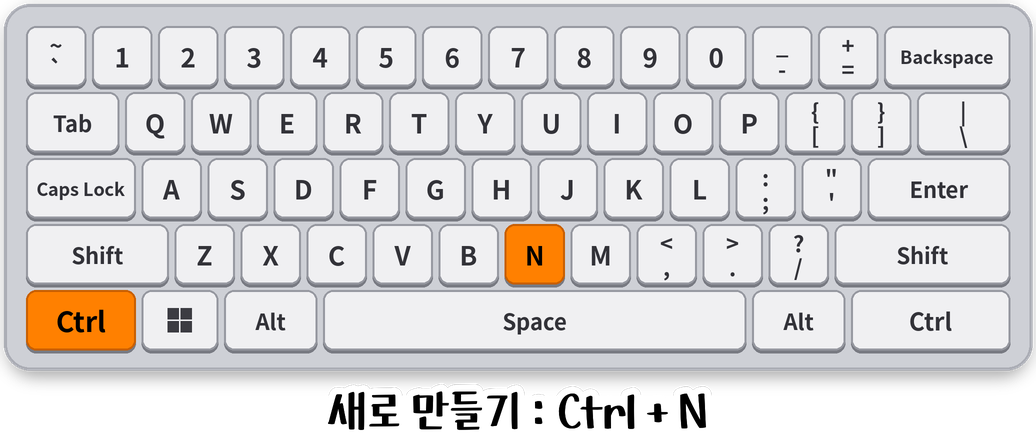
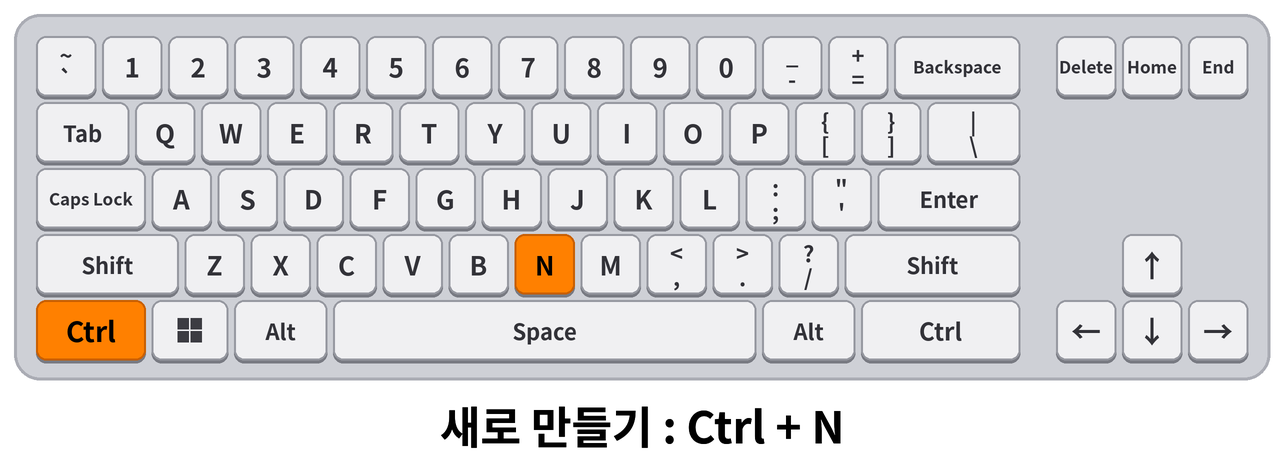
스티커: 단축키 메뉴(키보드형·텍스트형), 단축키 스티커 39종, 도형 12종 추가
Claude-Session: https://claude.ai/code/session_01BX7yHuYMLGBaCC9Nhfa5pj

diff --git a/public/app.js b/public/app.js
@@ -1411,7 +1411,8 @@ function buildSubPane(d) {
     d.append(E('h4', '', `자막 목록 (${S.texts.filter((x) => x.kind === 'sub').length}개)`));
     const ss = S.texts.filter((x) => x.kind === 'sub').sort((p, q) => p.start - q.start); if (!ss.length) d.append(E('div', 'hint', '아직 없어요')); ss.forEach((x) => d.append(subRow(x)));
 }
-let stkSec = 'shape';
+let stkSec = 'shape', stkSub = 'kbd';
+const STK_ORDER = ['복사', '붙여넣기', '잘라내기', '되돌리기', '다시 실행', '저장', '전체 선택', '찾기', '새로 만들기', '인쇄', '화면 캡처', '바탕화면 보기', '재생 일시정지', '분할', '모든 트랙 분할', '앞부분 삭제', '뒷부분 삭제', '클립 삭제', '다시 실행 2', '속성 복사', '속성 붙여넣기', '1프레임 이동', '10프레임 이동', '이전 다음 컷', '처음으로', '끝으로', '선택 모드', '클릭 자르기 모드', '뒤로 감기', '멈춤', '빠르게 감기', '타임라인 전체 보기', '타임라인 확대', '타임라인 축소', '음량 올리기', '음량 내리기', '현재 장면 캡처', '내보내기', '줄바꿈'];
 function buildLeft() {
   const b = $('#lbody'); b.innerHTML = '';
   if (ltab === 'media') {
@@ -1440,8 +1441,16 @@ function buildLeft() {
       nb.onclick = () => { stkSec = k; Object.keys(secs).forEach((q) => { secs[q].style.display = q === k ? '' : 'none'; }); nav.querySelectorAll('.stknb').forEach((x) => x.classList.toggle('on', x.dataset.k === k)); };
       nav.append(nb); d.append(w); return { w, nb };
     };
-    const sShape = mkSec('shape', '도형'), sKbd = mkSec('kbd', '키보드형\n단축키'), sTxt = mkSec('txt', '텍스트형\n단축키'), sMine = mkSec('mine', '내 이미지'), sUsed = mkSec('used', '넣은 스티커');
-    sMine.nb.style.display = 'none'; sKbd.nb.style.display = sTxt.nb.style.display = 'none'; if (!ss.length) sUsed.nb.style.display = 'none';
+    const sShape = mkSec('shape', '도형'), sKey = mkSec('key', '단축키'), sMine = mkSec('mine', '내 이미지'), sUsed = mkSec('used', '넣은 스티커');
+    sMine.nb.style.display = 'none'; sKey.nb.style.display = 'none'; if (!ss.length) sUsed.nb.style.display = 'none';
+    if (stkSec === 'kbd' || stkSec === 'txt') stkSec = 'key';
+    const kg = E('div', 'stk-grid stk-names'), tg = E('div', 'stk-grid stk-names');
+    const subn = E('div', 'stksub'), subb = E('div', 'stksubbody'), ksub = {};
+    [['kbd', '키보드형', kg], ['txt', '텍스트형', tg]].forEach(([k, lb, gr]) => {
+      const bt = E('button', 'stksb' + (stkSub === k ? ' on' : ''), lb); bt.onclick = () => { stkSub = k; kg.style.display = k === 'kbd' ? '' : 'none'; tg.style.display = k === 'txt' ? '' : 'none'; subn.querySelectorAll('.stksb').forEach((q) => q.classList.toggle('on', q === bt)); }; subn.append(bt); ksub[k] = gr;
+    });
+    kg.style.display = stkSub === 'kbd' ? '' : 'none'; tg.style.display = stkSub === 'txt' ? '' : 'none'; subb.append(kg, tg);
+    const kw = E('div', 'stkkey'); kw.append(subn, subb); sKey.w.append(kw);
     const sg = E('div', 'chips shapes');
     const SV = (vb, inner, st) => `<svg viewBox="${vb}" width="30" height="30" fill="${st ? 'none' : 'currentColor'}" ${st ? 'stroke="currentColor" stroke-width="2.4" stroke-linecap="round" stroke-linejoin="round"' : ''}>${inner}</svg>`;
     const SHI = {
@@ -1457,17 +1466,21 @@ function buildLeft() {
       hand: SV('0 0 100 120', `<path d="${HAND_D}" stroke-width="7"/>`, 1),
       handclick: SV('0 0 100 130', `<path d="${HAND_D}" transform="translate(0 10)" stroke-width="7"/><path d="M43 8V0M33 12L27 6M53 12l6-6M29 22h-8M57 22h8" stroke-width="7"/>`, 1),
     };
+    Object.keys(SHAPE_PTS).forEach((v) => { if (!SHI[v]) SHI[v] = SV('0 0 24 24', '<polygon points="' + SHAPE_PTS[v].map(([u, w]) => (u * 20 + 2).toFixed(1) + ',' + (w * 20 + 2).toFixed(1)).join(' ') + '"/>'); });
+    Object.keys(SHAPE_D).forEach((v) => { SHI[v] = SV('0 0 24 24', '<path transform="translate(2 2) scale(.2)" d="' + SHAPE_D[v] + '"/>'); });
     Object.keys(SHI).forEach((v) => { const b = E('button', 'chip', SHI[v]); b.title = SHAPE_NAMES[v]; b.onclick = () => addShape(v); sg.append(b); });
     sShape.w.append(sg);
     const g = E('div', 'stk-grid'); sMine.w.append(g);
     const trash = E('div', 'stk-trash', '🗑 삭제'); trash.style.display = 'none'; trash.ondragover = (e) => { e.preventDefault(); trash.classList.add('over'); }; trash.ondragleave = () => trash.classList.remove('over'); trash.ondrop = (e) => { e.preventDefault(); trash.style.display = 'none'; trash.classList.remove('over'); if (trash._del) trash._del(); };
-    const kg = E('div', 'stk-grid stk-names'), tg = E('div', 'stk-grid stk-names'); sKbd.w.append(kg); sTxt.w.append(tg); d.append(trash);
+    d.append(trash);
     const drag0 = (e, st) => { dragKind = 'sticker'; e.dataTransfer.setData('text/x-vtk', JSON.stringify({ k: 'sticker', st })); e.dataTransfer.effectAllowed = st.builtin ? 'copy' : 'copyMove'; };
     fetch('/api/stickers').then((r) => r.json()).then((l) => {
+      const rk = (st) => { const n = st.id.replace(/\.[^.]+$/, '').replace(/^[^_]*_/, ''), i = STK_ORDER.indexOf(n); return i < 0 ? 999 : i; };
+      l = l.slice().sort((p, q) => (q.builtin ? 1 : 0) - (p.builtin ? 1 : 0) || (p.builtin ? rk(p) - rk(q) : 0));
       l.forEach((st) => {
         if (st.builtin) {   // 편집기에 들어 있는 단축키 스티커: 같은 크기 글자 칸으로 보여줘요
           const t = E('button', 'stk-name', esc(st.id.replace(/\.[^.]+$/, '').replace(/^[^_]*_/, ''))); t.onclick = () => addSticker(st); t.draggable = true; t.ondragstart = (e) => drag0(e, st);
-          const k = st.id.startsWith('단축키_'); (k ? kg : tg).append(t); (k ? sKbd : sTxt).nb.style.display = ''; return;
+          const k = st.id.startsWith('단축키_'); (k ? kg : tg).append(t); sKey.nb.style.display = ''; return;
         }
         sMine.nb.style.display = '';
         const t = E('button', 'stk-tile'); t.title = st.name; const im = E('img'); im.src = '/api/sticker/file?n=' + encodeURIComponent(st.id); im.draggable = false; t.append(im); if (st.gif) t.append(E('span', 'gb', 'GIF'));
@@ -2305,14 +2318,28 @@ function buildFxTab(d) {
 
 /* ============ 도형 (사각형 · 원) ============ */
 const hexA = (h, a) => { h = String(h || '#000000').replace('#', ''); if (h.length === 3) h = h.split('').map((c) => c + c).join(''); const n = parseInt(h, 16) || 0; return `rgba(${(n >> 16) & 255},${(n >> 8) & 255},${n & 255},${clamp(a, 0, 1)})`; };
-const SHAPE_NAMES = { rect: '사각형', ellipse: '원', arrow: '화살표', check: '체크 표시', cross: 'X 표시', checkbox: '체크박스', pointer: '마우스 포인터', click: '클릭 표시', badge: '번호 동그라미', hand: '손가락 포인터', handclick: '손가락 클릭' };
+const SHAPE_NAMES = { rect: '사각형', ellipse: '원', arrow: '화살표', check: '체크 표시', cross: 'X 표시', checkbox: '체크박스', pointer: '마우스 포인터', click: '클릭 표시', badge: '번호 동그라미', hand: '손가락 포인터', handclick: '손가락 클릭', heart: '하트', star: '별', triangle: '삼각형', diamond: '마름모', pentagon: '오각형', hexagon: '육각형', plus: '더하기', bolt: '번개', chevron: '꺾쇠', darrow: '양쪽 화살표', bubble: '말풍선', bubble2: '둥근 말풍선' };
 const SHAPE_PTS = {
   arrow: [[0, .3], [.58, .3], [.58, 0], [1, .5], [.58, 1], [.58, .7], [0, .7]],
   check: [[.04, .56], [.2, .4], [.4, .6], [.8, .08], [.96, .24], [.4, .92]],
   cross: [[.2, 0], [.5, .3], [.8, 0], [1, .2], [.7, .5], [1, .8], [.8, 1], [.5, .7], [.2, 1], [0, .8], [.3, .5], [0, .2]],
-  pointer: [[0, 0], [0, .86], [.21, .67], [.36, 1], [.5, .94], [.35, .62], [.64, .62]]
+  pointer: [[0, 0], [0, .86], [.21, .67], [.36, 1], [.5, .94], [.35, .62], [.64, .62]],
+  star: [[0.5,0.04],[0.618,0.378],[0.976,0.385],[0.69,0.602],[0.794,0.945],[0.5,0.74],[0.206,0.945],[0.31,0.602],[0.024,0.385],[0.382,0.378]],
+  triangle: [[.5, 0], [1, 1], [0, 1]], diamond: [[.5, 0], [1, .5], [.5, 1], [0, .5]],
+  pentagon: [[0.5,0.03],[0.976,0.375],[0.794,0.935],[0.206,0.935],[0.024,0.375]],
+  hexagon: [[.25, 0], [.75, 0], [1, .5], [.75, 1], [.25, 1], [0, .5]],
+  plus: [[.35, 0], [.65, 0], [.65, .35], [1, .35], [1, .65], [.65, .65], [.65, 1], [.35, 1], [.35, .65], [0, .65], [0, .35], [.35, .35]],
+  bolt: [[.6, 0], [.12, .58], [.46, .58], [.34, 1], [.88, .4], [.52, .4]],
+  chevron: [[0, 0], [.45, 0], [1, .5], [.45, 1], [0, 1], [.55, .5]],
+  darrow: [[0, .5], [.2, .12], [.2, .34], [.8, .34], [.8, .12], [1, .5], [.8, .88], [.8, .66], [.2, .66], [.2, .88]]
 };
-const SHAPE_START = { hand: { w: 10, h: 12, fillColor: '#ffffff', stroke: true, strokeColor: '#000000', strokeW: 5 }, handclick: { w: 13, h: 15, fillColor: '#ffffff', stroke: true, strokeColor: '#000000', strokeW: 5 }, badge: { w: 9, h: 9, fillColor: '#FF3B30', num: '1', numColor: '#ffffff' }, arrow: { w: 26, h: 13, fillColor: '#FF3B30', stroke: true, strokeColor: '#ffffff', strokeW: 4 }, click: { w: 9, h: 9, fillColor: '#FFE14D', fillOpacity: 45, stroke: true, strokeColor: '#FFD21F', strokeW: 6 }, check: { w: 12, h: 12, fillColor: '#22C55E' }, cross: { w: 12, h: 12, fillColor: '#FF3B30' }, checkbox: { w: 12, h: 12, fill: false, stroke: true, strokeColor: '#ffffff', strokeW: 8, radius: 15, checkColor: '#22C55E' }, pointer: { w: 9, h: 12, fillColor: '#ffffff', stroke: true, strokeColor: '#000000', strokeW: 4, shadow: true } };
+// 곡선이 있는 도형 (가로·세로 100 칸 안에 그린 선)
+const SHAPE_D = {
+  heart: 'M50 97C8 63 0 41 0 27C0 11 12 2 26 2C36 2 45 8 50 18C55 8 64 2 74 2C88 2 100 11 100 27C100 41 92 63 50 97Z',
+  bubble: 'M16 4H84Q98 4 98 18V58Q98 72 84 72H48L26 96L30 72H16Q2 72 2 58V18Q2 4 16 4Z',
+  bubble2: 'M50 4C24 4 3 21 3 41C3 53 10 63 21 70L15 97L46 77C47 77 49 77 50 77C76 77 97 61 97 41C97 21 76 4 50 4Z'
+};
+const SHAPE_START = { heart: { w: 18, h: 17, fillColor: '#FF3B30' }, star: { w: 18, h: 17, fillColor: '#FFD60A' }, triangle: { w: 18, h: 16 }, diamond: { w: 16, h: 18 }, pentagon: { w: 18, h: 17 }, hexagon: { w: 18, h: 16 }, plus: { w: 15, h: 15, fillColor: '#22C55E' }, bolt: { w: 12, h: 18 }, chevron: { w: 12, h: 16 }, darrow: { w: 28, h: 12, fillColor: '#FF3B30', stroke: true, strokeColor: '#ffffff', strokeW: 4 }, bubble: { w: 28, h: 22, fillColor: '#ffffff', stroke: true, strokeColor: '#000000', strokeW: 5 }, bubble2: { w: 28, h: 22, fillColor: '#ffffff', stroke: true, strokeColor: '#000000', strokeW: 5 }, hand: { w: 10, h: 12, fillColor: '#ffffff', stroke: true, strokeColor: '#000000', strokeW: 5 }, handclick: { w: 13, h: 15, fillColor: '#ffffff', stroke: true, strokeColor: '#000000', strokeW: 5 }, badge: { w: 9, h: 9, fillColor: '#FF3B30', num: '1', numColor: '#ffffff' }, arrow: { w: 26, h: 13, fillColor: '#FF3B30', stroke: true, strokeColor: '#ffffff', strokeW: 4 }, click: { w: 9, h: 9, fillColor: '#FFE14D', fillOpacity: 45, stroke: true, strokeColor: '#FFD21F', strokeW: 6 }, check: { w: 12, h: 12, fillColor: '#22C55E' }, cross: { w: 12, h: 12, fillColor: '#FF3B30' }, checkbox: { w: 12, h: 12, fill: false, stroke: true, strokeColor: '#ffffff', strokeW: 8, radius: 15, checkColor: '#22C55E' }, pointer: { w: 9, h: 12, fillColor: '#ffffff', stroke: true, strokeColor: '#000000', strokeW: 4, shadow: true } };
 const SHAPE_DEF = { fill: true, fillColor: '#FFFD00', fillOpacity: 100, stroke: false, strokeColor: '#ffffff', strokeW: 6, strokeStyle: 'solid', strokeOpacity: 100, radius: 0, shadow: false, shadowColor: '#000000', shadowOpacity: 60, shadowBlur: 12, shadowX: 6, shadowY: 8, opacity: 100, lock: true };
 // 도형을 캔버스에 그림 (미리보기와 내보내기가 똑같이 이 함수를 써요). Wc = 화면 가로 픽셀
 const HAND_D = 'M36 12 a7 7 0 0 1 14 0 L50 46 a6 6 0 0 1 12 0 L62 52 a6 6 0 0 1 12 0 L74 58 a6 6 0 0 1 12 0 L86 82 Q86 108 62 112 L44 112 Q32 112 26 100 L10 74 Q6 66 14 62 Q20 60 25 66 L36 80 Z';
@@ -2330,7 +2357,7 @@ function drawShape(x, Wc) {
     const mt = new DOMMatrix().translate(-w / 2, -h / 2).scale(w / 100, h / VH).translate(0, dy);
     P2 = new Path2D(); P2.addPath(new Path2D(HAND_D), mt);
     if (click) { SPARK = new Path2D(); [-90, -135, -45, 180, 0].forEach((ag) => { const r = ag * Math.PI / 180, c = Math.cos(r), s = Math.sin(r); const sp = new Path2D(); sp.moveTo(43 + 14 * c, 22 + 14 * s); sp.lineTo(43 + 22 * c, 22 + 22 * s); SPARK.addPath(sp, new DOMMatrix().translate(-w / 2, -h / 2).scale(w / 100, h / VH)); }); }
-  } else
+  } else if (SHAPE_D[x.shape]) { P2 = new Path2D(); P2.addPath(new Path2D(SHAPE_D[x.shape]), new DOMMatrix().translate(-w / 2, -h / 2).scale(w / 100, h / 100)); } else
   if (x.shape === 'ellipse' || x.shape === 'click' || x.shape === 'badge') g.ellipse(0, 0, w / 2, h / 2, 0, 0, Math.PI * 2);
   else if (SHAPE_PTS[x.shape]) { SHAPE_PTS[x.shape].forEach(([u, v], i) => { const px = (u - 0.5) * w, py = (v - 0.5) * h; if (i) g.lineTo(px, py); else g.moveTo(px, py); }); g.closePath(); }
   else { const r = Math.min(clamp((x.radius || 0) / 100, 0, 0.5) * Math.min(w, h), w / 2, h / 2), l = -w / 2, t = -h / 2; g.moveTo(l + r, t); g.arcTo(l + w, t, l + w, t + h, r); g.arcTo(l + w, t + h, l, t + h, r); g.arcTo(l, t + h, l, t, r); g.arcTo(l, t, l + w, t, r); g.closePath(); }

diff --git a/public/style.css b/public/style.css
@@ -556,3 +556,7 @@ body.resizing{user-select:none}body.resizing *{cursor:inherit!important}
 .pane.stkwrap{flex-direction:row!important;align-items:stretch}.stknav{align-self:stretch}
 .bgsw{display:flex;flex-wrap:wrap;gap:8px;margin:6px 0 10px}.bgsw-b{width:34px;height:34px;border-radius:9px;border:2px solid #3a3a44;cursor:pointer;padding:0}.bgsw-b:hover{border-color:#fff}.bgdot{width:16px;height:16px;border-radius:50%;border:1px solid #666;flex:none}
 .ttl-in{width:100%;box-sizing:border-box;margin:0 0 8px;padding:10px 12px;border-radius:9px;border:1px solid #3a3a44;background:#1c1c22;color:#fff;font-size:14px}.bgsw-b.on{border-color:#26d4c4;box-shadow:0 0 0 2px #26d4c4 inset}
+
+.stkkey{display:flex;gap:8px;align-items:flex-start}.stksub{flex:none;width:74px;display:flex;flex-direction:column;gap:4px}.stksubbody{flex:1;min-width:0}
+.stksb{padding:10px 4px;border:1px solid var(--line,#34343c);border-radius:8px;background:#1d1d22;color:#a9a9b6;font-size:13px;font-weight:700;cursor:pointer}.stksb:hover{color:#fff}.stksb.on{background:#2d2d36;color:var(--accent,#26d4c4);border-color:var(--accent,#26d4c4)}
+.stkkey .stk-names{grid-template-columns:1fr!important}.stkkey .stk-name{height:40px;font-size:14px;padding:0 10px;text-align:left;white-space:nowrap;overflow:hidden;text-overflow:ellipsis}

diff --git a/tools/make_stickers.py b/tools/make_stickers.py
@@ -1,0 +1,95 @@
+from PIL import Image, ImageDraw, ImageFont, ImageFilter
+import os, sys
+S=2
+KEY=60*S; GAP=6*S; PAD=26*S
+F='/usr/share/fonts/opentype/noto/NotoSansCJK-Bold.ttc'
+def font(s,idx=1): return ImageFont.truetype(F,int(s*S),index=idx)
+rows=[
+ [('~\n`',1),('1',1),('2',1),('3',1),('4',1),('5',1),('6',1),('7',1),('8',1),('9',1),('0',1),('_\n-',1),('+\n=',1),('Backspace',2)],
+ [('Tab',1.5)]+[(c,1) for c in 'QWERTYUIOP']+[('{\n[',1),('}\n]',1),('|\n\\',1.5)],
+ [('Caps Lock',1.75)]+[(c,1) for c in 'ASDFGHJKL']+[(':\n;',1),('"\n\'',1),('Enter',2.25)],
+ [('Shift',2.25)]+[(c,1) for c in 'ZXCVBNM']+[('<\n,',1),('>\n.',1),('?\n/',1),('Shift',2.75)],
+ [('Ctrl',1.75),('Win',1.25),('Alt',1.5),('Space',6.5),('Alt',1.5),('Ctrl',2.5)],
+]
+# 오른쪽 이동키 묶음 (행 번호, 열 번호, 글자)
+cluster=[(0,0,'Delete'),(0,1,'Home'),(0,2,'End'),(3,1,'↑'),(4,0,'←'),(4,1,'↓'),(4,2,'→')]
+MAINW=15*KEY+14*GAP; CLW=3*KEY+2*GAP; SEP=int(0.6*KEY)
+def keyboard(hl, caption, out):
+    W=int(MAINW+SEP+CLW+2*PAD); H0=int(5*KEY+4*GAP+2*PAD); capf=font(44)
+    H=H0+int(76*S)
+    im=Image.new('RGBA',(W,H),(0,0,0,0))
+    d=ImageDraw.Draw(im)
+    d.rounded_rectangle((4*S,4*S,W-4*S,H0-6*S),radius=26*S,fill=(206,208,214,255),outline=(170,172,180,255),width=3*S)
+    def key(x,y,kw,lab,on):
+        fill=(255,128,0,255) if on else (240,240,242,255)
+        edge=(200,95,0,255) if on else (150,152,160,255)
+        d.rounded_rectangle((x,y+3*S,x+kw,y+KEY+3*S),radius=10*S,fill=(120,122,130,255))
+        d.rounded_rectangle((x,y,x+kw,y+KEY),radius=10*S,fill=fill,outline=edge,width=2*S)
+        col=(0,0,0,255) if on else (50,50,56,255); cx,cy=x+kw/2,y+KEY/2
+        if lab=='Win':
+            s=11*S; g=2*S
+            for i in range(2):
+                for j in range(2): d.rectangle((cx-s-g/2+i*(s+g),cy-s-g/2+j*(s+g),cx-g/2+i*(s+g),cy-g/2+j*(s+g)),fill=(255,255,255,255) if on else (60,60,66,255))
+        elif '\n' in lab:
+            a,b=lab.split('\n'); f=font(22); d.text((cx,cy-12*S),a,font=f,fill=col,anchor='mm'); d.text((cx,cy+12*S),b,font=f,fill=col,anchor='mm')
+        else:
+            if lab in '↑←↓→': size=30
+            elif len(lab)==1: size=26
+            elif lab in('Ctrl','Shift','Alt','Enter','Space','Tab'): size=22
+            else: size=17
+            if lab in('Ctrl','Win'): size=28 if on else 24
+            d.text((cx,cy),lab,font=font(size),fill=col,anchor='mm')
+    counts={}; y=PAD
+    for r in rows:
+        x=PAD
+        for lab,w in r:
+            kw=w*KEY+(w-1)*GAP if w!=1 else KEY
+            counts[lab]=counts.get(lab,0)+1
+            key(x,y,kw,lab,lab in hl and counts[lab]==1)
+            x+=kw+GAP
+        y+=KEY+GAP
+    x0=PAD+MAINW+SEP
+    for r,c,lab in cluster:
+        key(x0+c*(KEY+GAP),PAD+r*(KEY+GAP),KEY,lab,lab in hl)
+    cd=ImageDraw.Draw(im); cy=H0+38*S
+    cd.text((W/2,cy),caption,font=capf,fill=(0,0,0,255),anchor='mm',stroke_width=6*S,stroke_fill=(255,255,255,255))
+    cd.text((W/2,cy),caption,font=capf,fill=(0,0,0,255),anchor='mm')
+    OFF=10*S; SW=6*S   # 아래 글자와 같은 흰색, 같은 굵기(6) 테두리
+    big=Image.new('RGBA',(W+2*OFF,H+2*OFF),(0,0,0,0)); bd=ImageDraw.Draw(big)
+    bd.rounded_rectangle((OFF+4*S-SW,OFF+4*S-SW,OFF+W-4*S+SW,OFF+H0-6*S+SW),radius=26*S+SW,fill=(255,255,255,255))
+    big.alpha_composite(im,(OFF,OFF)); im=big; W,H=im.size
+    im=im.resize((W//S,H//S),Image.LANCZOS); im.save(out)
+def textsticker(label,out):
+    f=font(80); sw=10*S; pad=34*S
+    tmp=Image.new('RGBA',(10,10)); bb=ImageDraw.Draw(tmp).textbbox((0,0),label,font=f,stroke_width=sw,anchor='la')
+    w=bb[2]-bb[0]+2*pad; h=bb[3]-bb[1]+2*pad
+    im=Image.new('RGBA',(w,h),(0,0,0,0)); d=ImageDraw.Draw(im); pos=(pad-bb[0],pad-bb[1])
+    d.text(pos,label,font=f,fill=(0,0,0,255),anchor='la',stroke_width=sw,stroke_fill=(255,255,255,255))
+    d.text(pos,label,font=f,fill=(0,0,0,255),anchor='la')
+    im=im.resize((w//S,h//S),Image.LANCZOS); im.save(out)
+EQ='+\n='; MIN='_\n-'; DOT='>\n.'; COM='<\n,'
+items=[
+ ('복사','Ctrl + C',['Ctrl','C']),('붙여넣기','Ctrl + V',['Ctrl','V']),('잘라내기','Ctrl + X',['Ctrl','X']),
+ ('되돌리기','Ctrl + Z',['Ctrl','Z']),('다시 실행','Ctrl + Y',['Ctrl','Y']),('저장','Ctrl + S',['Ctrl','S']),
+ ('전체 선택','Ctrl + A',['Ctrl','A']),('찾기','Ctrl + F',['Ctrl','F']),('새로 만들기','Ctrl + N',['Ctrl','N']),
+ ('인쇄','Ctrl + P',['Ctrl','P']),('화면 캡처','Win + Shift + S',['Win','Shift','S']),('바탕화면 보기','Win + D',['Win','D']),
+ ('재생 일시정지','Space',['Space']),
+ ('분할','Ctrl + B',['Ctrl','B']),('모든 트랙 분할','Ctrl + Shift + B',['Ctrl','Shift','B']),
+ ('앞부분 삭제','Q',['Q']),('뒷부분 삭제','W',['W']),('클립 삭제','Delete',['Delete']),
+ ('다시 실행 2','Ctrl + Shift + Z',['Ctrl','Shift','Z']),
+ ('속성 복사','Ctrl + Shift + C',['Ctrl','Shift','C']),('속성 붙여넣기','Ctrl + Shift + V',['Ctrl','Shift','V']),
+ ('1프레임 이동','← →',['←','→']),('10프레임 이동','Shift + ← →',['Shift','←','→']),
+ ('이전 다음 컷','↑ ↓',['↑','↓']),('처음으로','Home',['Home']),('끝으로','End',['End']),
+ ('선택 모드','A',['A']),('클릭 자르기 모드','B',['B']),
+ ('뒤로 감기','J',['J']),('멈춤','K',['K']),('빠르게 감기','L',['L']),
+ ('타임라인 전체 보기','Shift + Z',['Shift','Z']),
+ ('타임라인 확대','Ctrl + =',['Ctrl',EQ]),('타임라인 축소','Ctrl + -',['Ctrl',MIN]),
+ ('음량 올리기','Ctrl + .',['Ctrl',DOT]),('음량 내리기','Ctrl + ,',['Ctrl',COM]),
+ ('현재 장면 캡처','Ctrl + P',['Ctrl','P']),('내보내기','Ctrl + E',['Ctrl','E']),
+ ('줄바꿈','Enter',['Enter']),
+]
+if __name__=='__main__':
+    o=sys.argv[1]; os.makedirs(o,exist_ok=True)
+    for n,k,h in items:
+        keyboard(set(h),f'{n} : {k}',f'{o}/단축키_{n}.png'); textsticker(f'{n} : {k}',f'{o}/텍스트_{n}.png')
+    print(len(os.listdir(o)))
